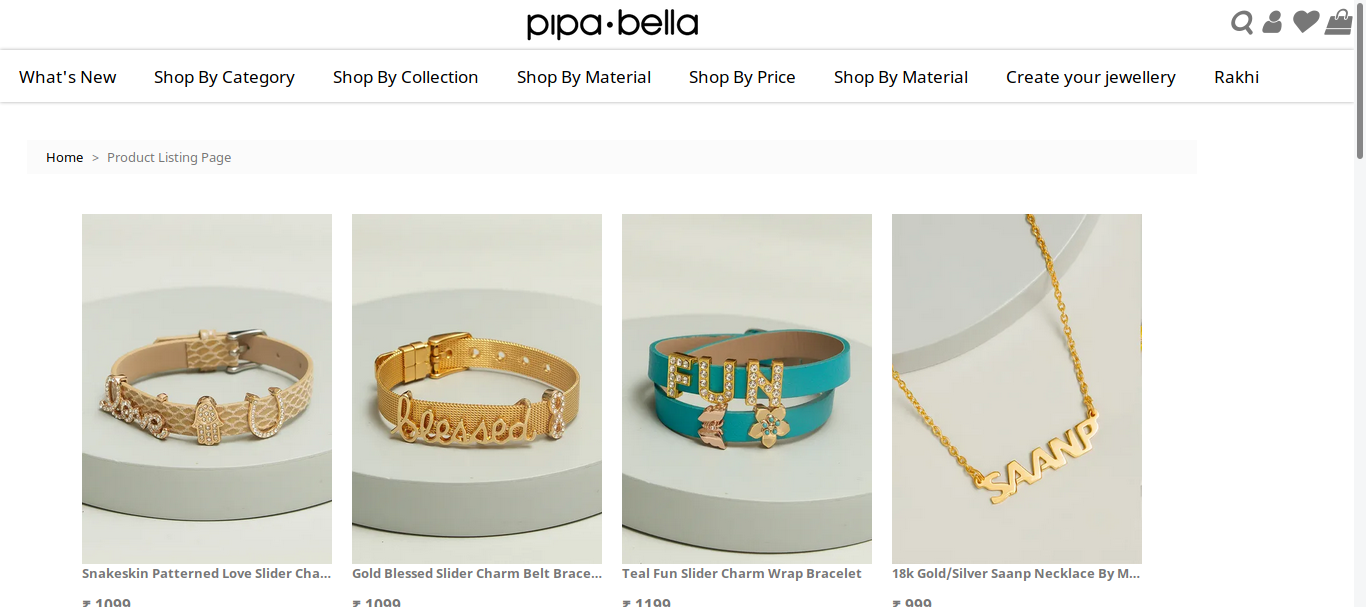
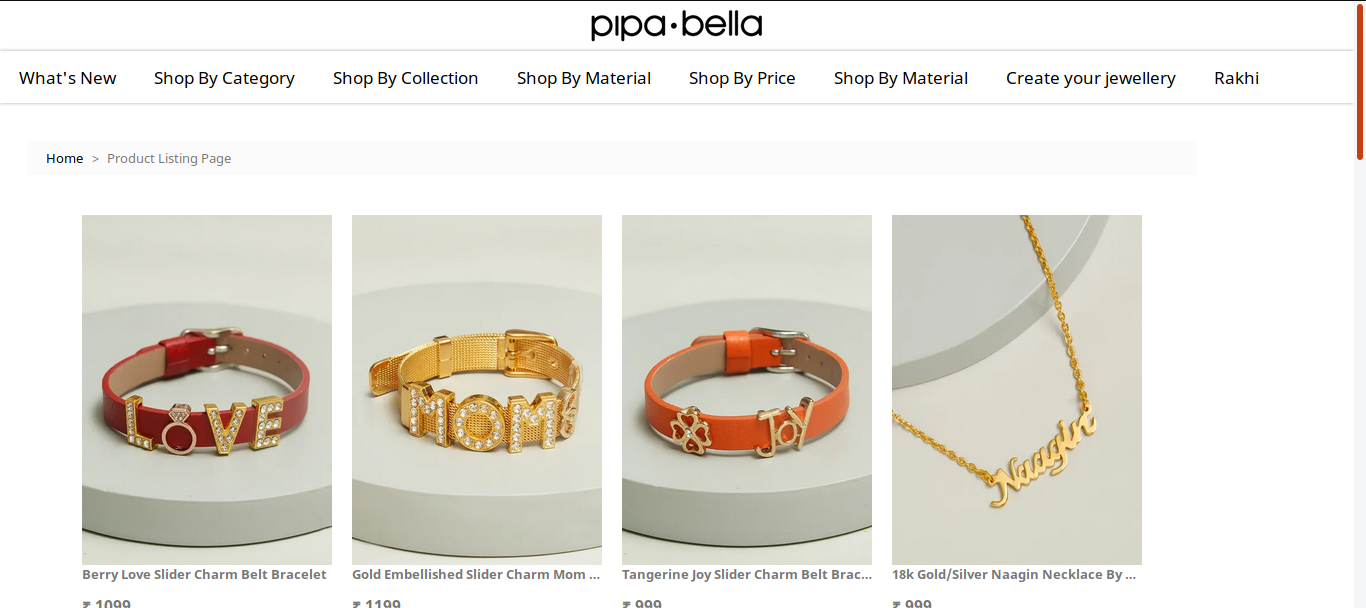
added theme files

diff --git a/skin/frontend/pbtheme/default/css/product-list.css b/skin/frontend/pbtheme/default/css/product-list.css
@@ -85,6 +85,7 @@
 .toolbar {
   display: flex;
   flex-direction: row;
+  justify-content: center;
   background-color: white;
   top: 0px;
   left: 0px;
@@ -123,26 +124,9 @@
   color: #d62598;
 }
 
-.pb {
-  margin-left: auto;
-  margin-right: 0px;
-}
-
-.icons {
-  margin-right: 0;
-  margin-left: auto;
-}
-
-.search-bar, .user-log, .whishlist, .shopping-cart  {
-  margin: 8px 3px 0 3px;
-}
-
-.toolbar a.icon {
-  display: none;
-}
-
-.topnav-icon{
-  display: none;  
+.pb-img{
+  display: flex;
+  justify-content: center;
 }
 
 .hamberger-icon, #Sidenav{
@@ -156,21 +140,19 @@
     display: none;
   }
 
-  .topnav-icon{
-    display: block;
-  }
-
-  .topnav-icon > .whishlist, .topnav-icon > .shopping-cart {
-    margin: 2px 2px 5px 2px;
-  }
-
-  .topnav{
+  .toolbar{
     display: flex;
-    flex-direction: row-reverse;
+    flex-direction: row;
   }
 
-  .icons > .whishlist, .icons > .shopping-cart  {
-    display: none;
+  .hamberger-icon{
+    margin-left: 0;
+    margin-right: 0;
+  }
+  
+  .pb-img{
+    margin-left: auto;
+    margin-right: auto;
   }
 
   .hamberger-icon, #Sidenav{
@@ -185,11 +167,11 @@
 
   .sidenav {
     height: 100%;
-    width: 0;
+    width: 300px;
     position: fixed;
     z-index: 99999;
     top: 0px;
-    left: 0;
+    left: -300px;
     background-color: white;
     overflow-x: hidden;
     transition: 0.5s;
@@ -222,5 +204,5 @@
  
 @media screen and (max-height: 450px) {
   .sidenav {padding-top: 15px;}
-  .sidenav a {font-size: 18px;}
+  .sidenav a {font-size: 16px;}
 }

diff --git a/js/navbar.js b/js/navbar.js
@@ -1,9 +1,9 @@
 /*  OpenNav and closeNav functions are used to show and hide navbar items in mobile view using hamberger icon */
 
 function openNav() {
-    document.getElementById("Sidenav").style.width = "270px";
+    document.getElementById("Sidenav").style.left = "0";
 }
   
 function closeNav() {
-    document.getElementById("Sidenav").style.width = "0";
+    document.getElementById("Sidenav").style.left = "-300px";
 }
